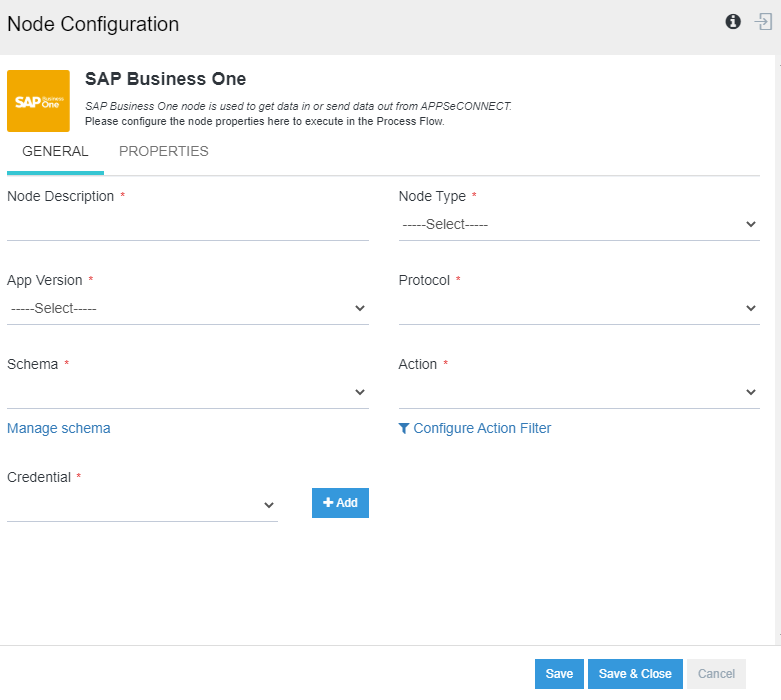
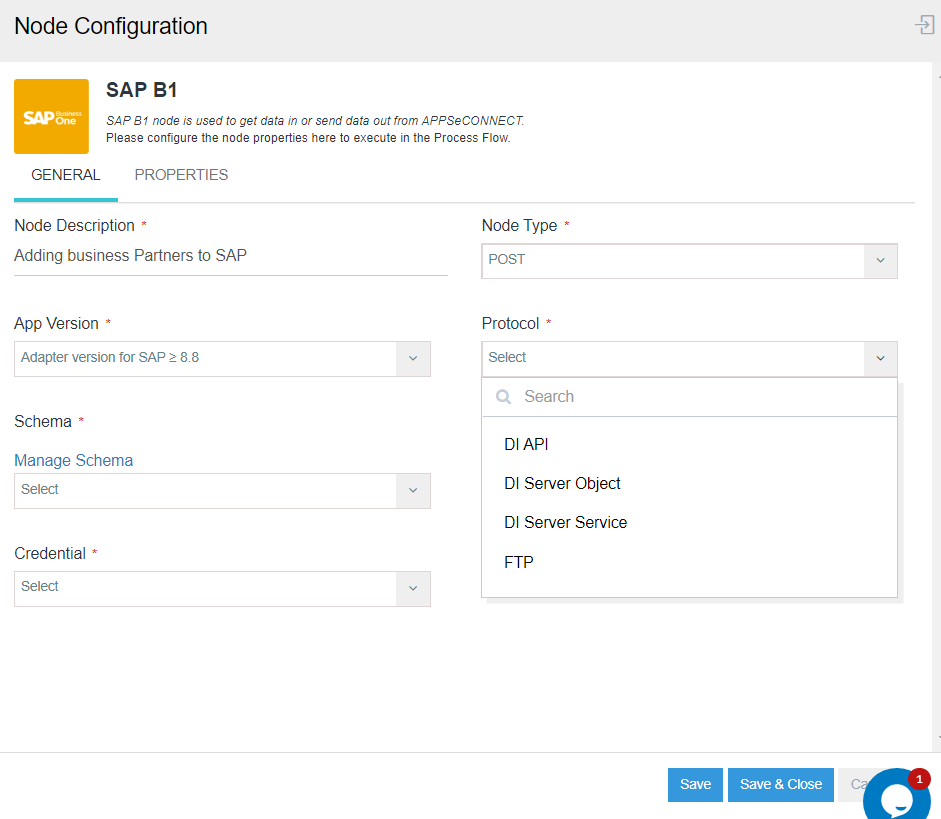
Protocol section added under processflow > nodes and links,images changed in cloud appresource function.

diff --git a/_posts/ProcessFlow Management/Mapper/2022-03-22-Working-with-functions.md b/_posts/ProcessFlow Management/Mapper/2022-03-22-Working-with-functions.md
@@ -14,7 +14,7 @@ menus:
 **Appresource Functions** are the functions in APPSeCONNECT that are written in the adapter(APPSeCONNECT supports calling external functions written in C# inside the adapter) which is used for the data transformation from the source Application to the Destination Application. 
 In APPSeCONNECT, you can use the following Appresource Functions :
 
-1)**Generic AppResource Functions** - The generic appresources are the functions that have general defined task which are provided by APPSeCONNECT itself. APPSeCONNECT supports following generic functions.
+1)**Generic Function** - The generic appresources are the functions that have general defined task which are provided by APPSeCONNECT itself. APPSeCONNECT supports following generic functions.
 
 |Function_Name|Description|Example|
 |----------------------|---|----------------------|
@@ -56,11 +56,41 @@ In APPSeCONNECT, you can use the following Appresource Functions :
 |getMapping(ObjectType,Value)|Gets value mapping for a particular type from either source or destination|[genericlib:getMapping("Currency" ,"$")]|
 |GetUpperString(data)|Converts the data to an upper string case|[genericlib:GetUpperString(data)]|
 
-**Note : Click [here]](/transformation/using-library-methods/) to know how to use generic functions in your processflow.
+**Note : Click [here](/transformation/using-library-methods/) to know how to use generic functions in your processflow.
 
-2)**Cloud Appresource** -  The Cloud Appresources are the functions that are used when creating or editing a processflow. These functions are written within the cloud portal itself. The function of the cloud appresources are referred by *cloudResourcelib.**
+2)**Cloud Appresource Function** -  The Cloud Appresources are the functions that are used when creating or editing a processflow. These functions are written within the cloud portal itself. The function of the cloud appresources are referred by *cloudResourcelib.** You can create and use a cloud appresource function by following the below mentioned steps.
 
-**Note : Click [here]](/transformation/using-library-methods/) to know how to use generic functions in your processflow.
+###### Steps to Implement Cloud Appresource Functions for Process Flow:
 
-3)User-Defined Function - 
+a.	Create a new Process flow or open an existing Process Flow for which you need to implement Cloud Appresource. 
+![cloud1](\staticfiles\processflow\media\mapper\cloudfunction1.png)    
+b. Click on the Node Configuration icon for the Mapper Node. The Mapper/Transformation window for that Process flow opens. Expand the [transformation node](/transformation/getting-started-with-mapping/#structure-of-mapping). 
+**Open** the attribute for which you need to implement and map the Cloud Appresource. Expand the Function node to view the **Cloud Appresource Sub-Node**.
+![cloud2](\staticfiles\processflow\media\mapper\cloudfunction2.png)  
+c. For creating a new Cloud Appresource function, you need to click the **Blue coloured ADD (Plus Symbol) icon**. The Cloud Appresource Interface opens.
+d. Provide the **Description** and **Example** to the cloud resource mapping for easy  user reference as why and how the cloud appresource is needed to be implemented.
+![cloud5](\staticfiles\processflow\media\mapper\cloudappresource-5.png)  
+e. The user can choose from the **Code snippet template** and **language fundamentals templates** also. The templates can be added in the code panel by drag and drop. 
+![cloud6](\staticfiles\processflow\media\mapper\cloudappresource-6.png)  
+f.	Code the Appresource and click on **Validate**. In case of error, validator will provide the area of the cause in the error message as shown below. 
+![cloud7](\staticfiles\processflow\media\mapper\cloudappresource-7.png)  
+g. Once validated successfully, close the Code validator screen & click on the **SAVE** button.
+h.	Expand the Cloud appresource Node for viewing the created function. Clicking on any of the function, will make it appear in the mapping Panel. You can also click on the **edit button** available beside the function name in the tree node, for making changes in the created Appresource function.
+![cloud8](\staticfiles\processflow\media\mapper\cloudappresource-8.png)  
+i. Once the mapping is done, click on the **Save button** to save the mapping.
+Following the process, you can successfully create & define a Process Flow.  
+
+**_Note:_**
+
+- Cloud Appresource functions can be created from Process Flow Mapper Node level & from [App level](/accessing%20portal/accessing-portal/#b-choosing-app).
+
+- You need to define Cloud Appresource every-time while working with Mapper node for a new Process Flow.
+
+- Also, you need to define the Cloud Appresource every-time while working with Multiple Mapper nodes.
+
+- Cloud Appresource created & defined in App level of your organisation will be available when the app is used in the Process Flow, you need not have to create & define a new function.
+
+
+3)**Source & Destination Function** - These functions are used by our platform to retrieve and post data to respective business application. 
+To know,how to use source and destination function during transformation click [here](/transformation/using-library-methods/).
 

diff --git a/_posts/ProcessFlow Management/Nodes and Links/2022-03-03-processflow-app.md b/_posts/ProcessFlow Management/Nodes and Links/2022-03-03-processflow-app.md
@@ -448,3 +448,57 @@ Following the above process, you can successfully **Create, View and Delete** Dy
 **- You cannot modify the template when viewed from the [Manage Schema](/processflow/adding-schema-actions/#listing-of-schemas-and-attributes) section.**
 
 **- You can also `view` , `edit` and `delete` the saved template from the [APPS](/getting%20started/configurations/) section.**
+
+
+## Protocol Implementation for Applications
+
+Applications are built with protocols for making them communicate with network resources and other applications. Application like SAP Business One is a SOAP based but follows multiple sub protocols for communicating with other applications with respect to data transfer. Irrespective of data, SAP Business One follows these sub protocols. 
+For Example : 
+
+- For creating master data in SAP Business One, you need work with the protocol **DI Server Service**.
+- For creating general transactional data like Business Partner, Products etc. you need to work with the protocol **DI Server Object**.
+
+SAP Business One follows two more protocols **DI API** & **FTP** for other purposes as well with respect to data. As an user, for integrating data you need to understand the protocol structure of the application you are working with, before implementing protocols in APPSeCONNECT processflow.
+
+**_Note_**: _You can anytime view the differences of these protocols in XSLT preview of Mapper Node._
+
+### Prerequisites for Protocol Implementation in processflow
+
+1. You need to have basic knowledge of the protocol used by the application selected by you.
+
+2. You need to design a processflow before implementing Protocol. [Click Here](/processflow/creating-processflow/) for the steps to design a processflow. 
+
+3. Protocol implementation is done only for the application in POST operation. Therefore you need to design the processflow with you application in destination.
+
+### Steps to setup Protocol in processflow
+
+**_Note_**: _Here we will demonstrate you with the steps to implement and setup Protocol keeping SAP business One in Destination. The flow remains the same if you are working with other application as well apart of SAP Business One.
+
+1. Login to the Portal and Navigate to the [processflow](/processflow/overview-of-processflow/) section. Click on the new button to [create a new processflow](/processflow/creating-processflow/).
+
+2. Design the processflow keeping the selected application in Destination (In this case SAP Business One).
+
+3. On dragging the [destination application](/processflow/working-with-POST/) (SAP Business One in this case), the Node Configuration Window opens. You need to select the **Protocols** from the drop-down. The protocols would be displayed as per the App version selected. For SAP Business One (version >= 8.8), you will get the following protocols. 
+
+- **DI API:** Used for operating any type of data using SAP Business One API.
+- **DI Server Object:** Used for operating general transactional data like Business Partner, Products etc.
+- **DI Server Service:** Used for creating master data in SAP Business One, you need work with the protocol **DI Server Service**.
+- **FTP:** Used for operating any type of data using File System.
+![protocol1](\staticfiles\processflow\media\protocol1.png)  
+4. Click on the **Save** button after all the mandatory fields are filled up. Link up the Nodes and Save the processflow. Click on the Node configuration Button of the [Mapper Node](/processflow/working-with-mapper/). The Mapper Window opens.     
+5. Click on the **Preview** button to view the generated XSLT with respect to the choosen protocol.
+   a. When the Protocol is selected as **DI API** you get the following XSLT Preview.
+        ![protocol3](\staticfiles\processflow\media\protocol3.PNG)
+
+   b. When the Protocol is selected as **DI Server Object**, you get the following XSLT Preview.
+        ![protocol4](\staticfiles\processflow\media\protocol4.PNG)
+6. When the Protocol is selected as **DI Server Service**, you get the following XSLT Preview.
+![protocol5](\staticfiles\processflow\media\protocol5.PNG)
+7. When the protocol is selected as **FTP**, you get the the following XSLT Preview.
+
+![protocol6](\staticfiles\processflow\media\protocol6.PNG)
+
+**_Note:_** _The XSLT format and structure for the protocols `DI API` & `FTP` remains same._
+
+Following the above process you can successfully select a protocol for an application performing POST operation.
+
